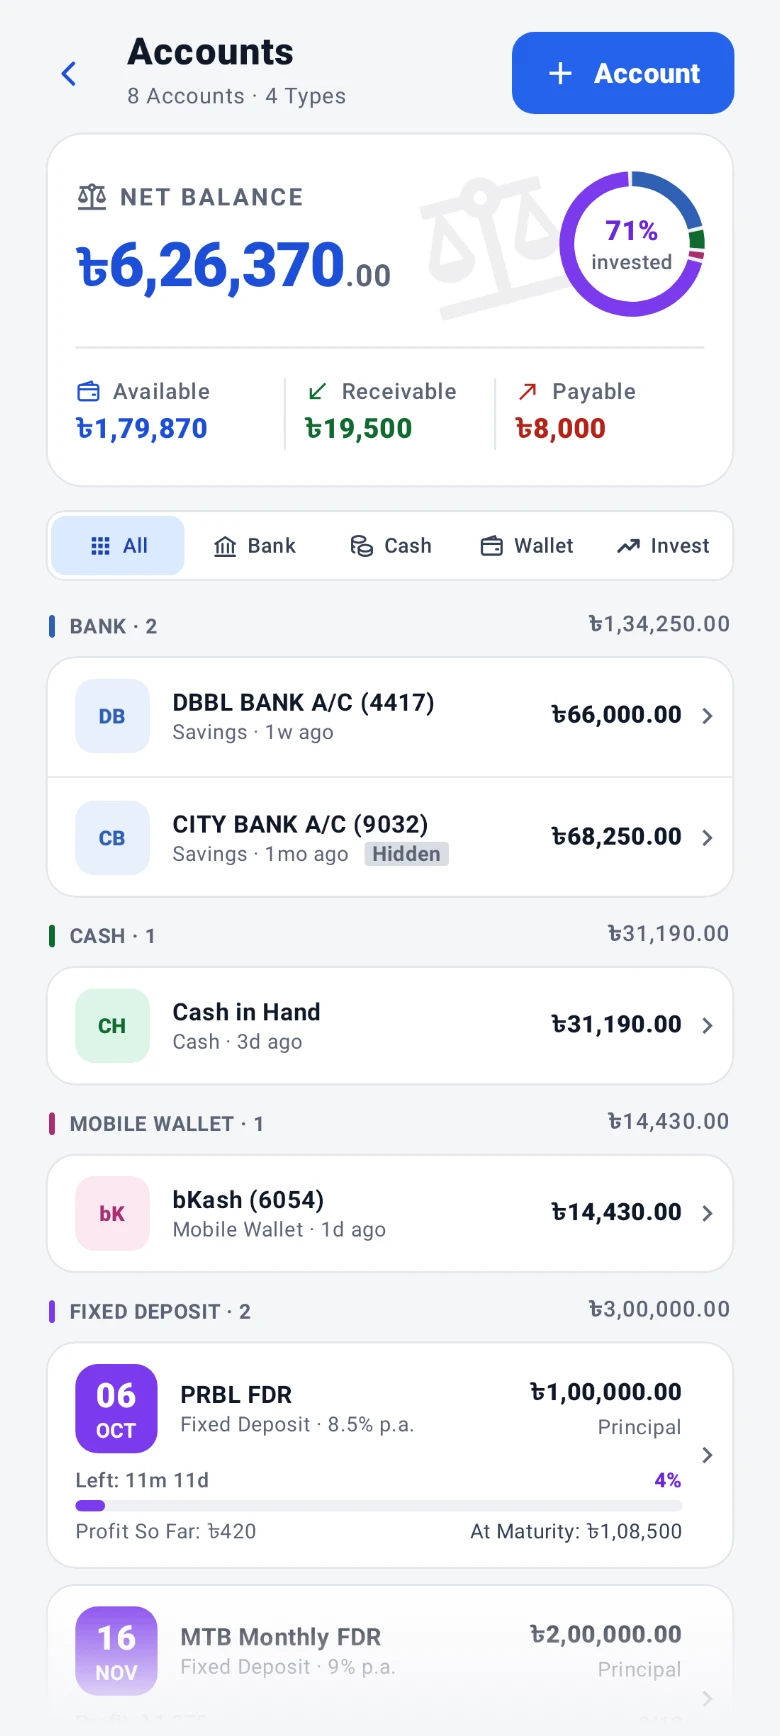
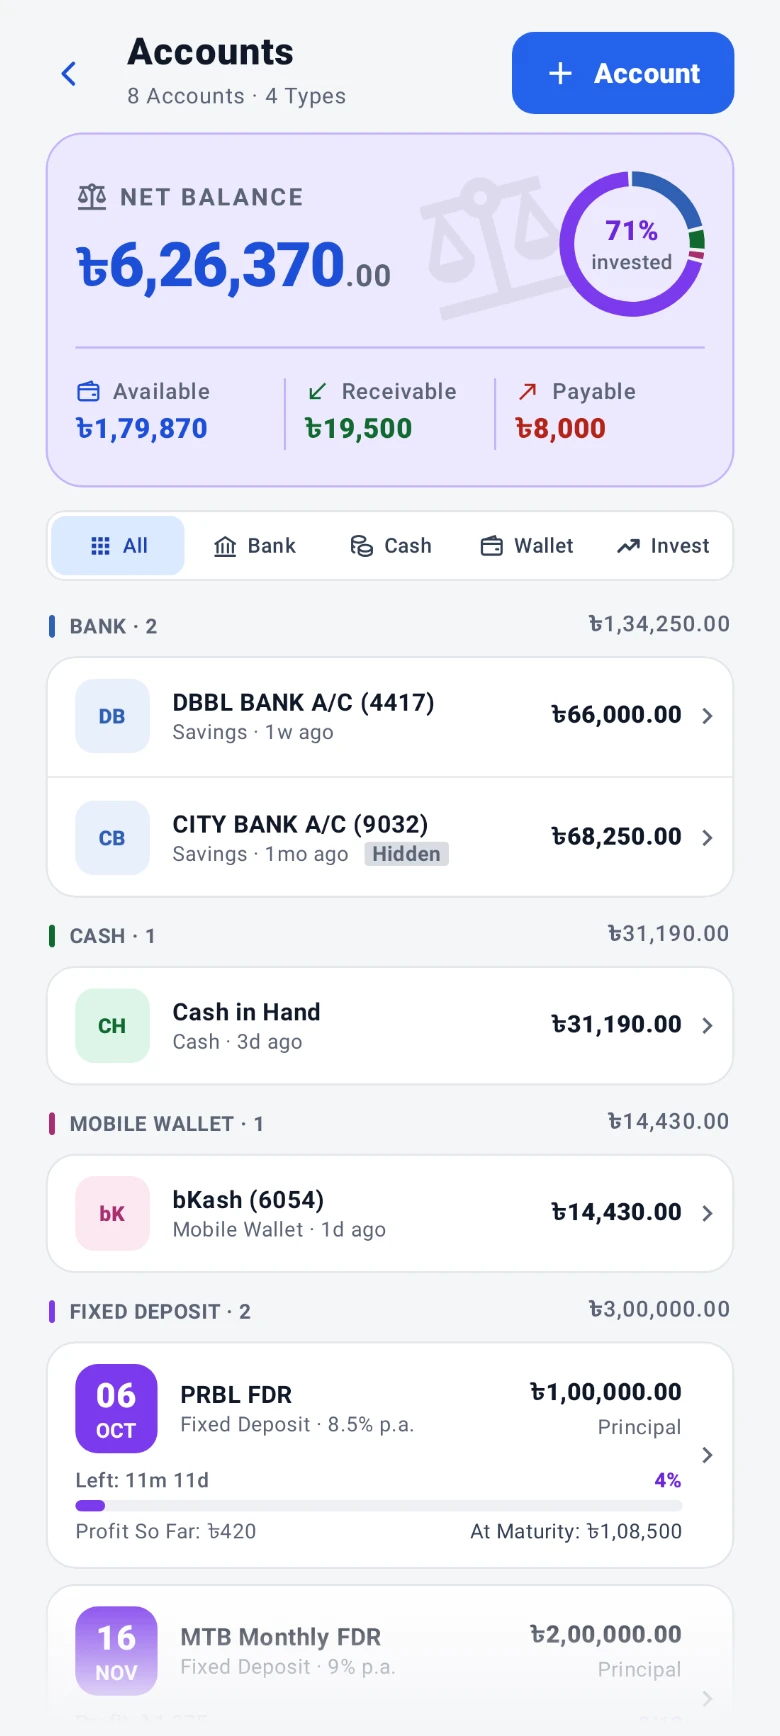
Website 2.26.1: follows app 2.3.1
- Features: the light theme's dark accent by the name the app now
  gives it, graphite (it said "slate"); a backup password is at least
  8 characters with a letter (it said "not only numbers", which let a
  date or a phone number with a slash or a dash through).
- Pictures rendered again from app 2.3.1: the light pairs of Home,
  Accounts, Investments, Analytics and Money Flow, their summary cards
  tinted violet under Rainbow and Home's head cards on a soft shadow,
  and the dark pairs of Analytics and Money Flow, their rules stopped
  short of the card's edges. The other 30 and the share picture came
  out the same.
- 2.26.0's commit filled in the changelog.

Changed region(s): [[0.6154, 0.2177, 0.6462, 0.2488], [0.3385, 0.2177, 0.3692, 0.2488]]

diff --git a/assets/strings.js b/assets/strings.js
@@ -474,10 +474,11 @@ const S = {
                  'ব্যাকআপ মানে একটি ফাইল, যা থাকে আপনার বেছে নেওয়া জায়গায় — আপনি নিজে সেভ করতে পারেন, অথবা অ্যাপ প্রতিদিন একটি ফোল্ডারে রাখে, যেখানে শেষ সাত দিনের কপি থাকে। "সর্বশেষ কপি রিস্টোর" সবচেয়ে নতুন কপি থেকে অ্যাকাউন্ট, এন্ট্রি, ধার আর আপনার প্রোফাইল ফিরিয়ে আনে; ভুল ফাইল রিস্টোর হয়ে গেলে "শেষ রিস্টোর ফিরিয়ে নিন" আগের খাতা ফিরিয়ে দেয়, যতক্ষণ না আপনি নতুন কিছু বদলান।'],
   fPassHead:    ['A password for the backup',
                  'ব্যাকআপের পাসওয়ার্ড'],
-  // 2.3.0: a password is at least 8 characters, not only numbers, and the bell says when the
-  // daily backup's saved one is weaker than that.
-  f7Pass:       ['A password locks the file — at least 8 characters, not only numbers. The daily backup keeps the one you saved, and you can change it any time; without one, anyone who has the file can open it. Nobody can recover a forgotten password. If a daily backup fails, a battery saver holds it back, or its saved password is weaker than that, the app tells you.',
-                 'পাসওয়ার্ড দিলে ফাইলটি তালাবন্ধ থাকে — কমপক্ষে ৮টি অক্ষর, শুধু সংখ্যা নয়। প্রতিদিনের ব্যাকআপ আপনার সেভ করা পাসওয়ার্ডই ব্যবহার করে, আর যখন খুশি সেটি বদলানো যায়। পাসওয়ার্ড না দিলে ফাইলটি যার হাতে যাবে সে-ই খুলতে পারবে, আর পাসওয়ার্ড ভুলে গেলে কেউ সেটি ফিরিয়ে দিতে পারবে না। প্রতিদিনের ব্যাকআপ না হলে, ব্যাটারি সেভার আটকে দিলে, বা সেভ করা পাসওয়ার্ড এর চেয়ে দুর্বল হলে, অ্যাপ জানিয়ে দেয়।'],
+  // 2.3.1: a password is at least 8 characters with a letter in it (2.3.0 said "not only
+  // numbers", which let a date or phone number with a slash or dash through), and the bell says
+  // when the daily backup's saved one is weaker than that.
+  f7Pass:       ['A password locks the file — at least 8 characters, with a letter. The daily backup keeps the one you saved, and you can change it any time; without one, anyone who has the file can open it. Nobody can recover a forgotten password. If a daily backup fails, a battery saver holds it back, or its saved password is weaker than that, the app tells you.',
+                 'পাসওয়ার্ড দিলে ফাইলটি তালাবন্ধ থাকে — কমপক্ষে ৮টি অক্ষর, অন্তত একটি বর্ণসহ। প্রতিদিনের ব্যাকআপ আপনার সেভ করা পাসওয়ার্ডই ব্যবহার করে, আর যখন খুশি সেটি বদলানো যায়। পাসওয়ার্ড না দিলে ফাইলটি যার হাতে যাবে সে-ই খুলতে পারবে, আর পাসওয়ার্ড ভুলে গেলে কেউ সেটি ফিরিয়ে দিতে পারবে না। প্রতিদিনের ব্যাকআপ না হলে, ব্যাটারি সেভার আটকে দিলে, বা সেভ করা পাসওয়ার্ড এর চেয়ে দুর্বল হলে, অ্যাপ জানিয়ে দেয়।'],
   f8Head:       ['Locked on your phone',
                  'ফোনেই তালাবন্ধ'],
   // 2.3.0: five wrong PINs lock for 30 s, doubling each time to 4 h (AuthManager).
@@ -488,8 +489,9 @@ const S = {
   fLookHead:    ['Set it up your way',
                  'আপনার পছন্দমতো সাজিয়ে নিন'],
   // 2.3.0: the light theme offers Slate and Rainbow, the dark theme gold (Yellow) and Rainbow.
-  fLookBody:    ['Bangla or English; light mode in slate or rainbow, dark mode in gold or rainbow; and the text size you like — change any of them whenever you want. Set to System, the text follows your phone’s settings, up to the app’s Large size; you can also pick Compact, Standard or Large yourself. Buttons are made easy to tap.',
-                 'বাংলা বা ইংরেজি; লাইট মোডে স্লেট বা রংধনু, ডার্ক মোডে সোনালি বা রংধনু থিম; আর পছন্দমতো ফন্ট সাইজ —সবকিছুই পরিবর্তন করতে পারবেন যখন খুশি। ফন্ট সাইজ System-এ রাখলে লেখা ফোনের সেটিংস অনুযায়ী দেখাবে, তবে অ্যাপের "বড়" সাইজের চেয়ে বড় হবে না। চাইলে কমপ্যাক্ট, স্ট্যান্ডার্ড বা বড় সাইজও বেছে নিতে পারবেন। বোতামগুলোও সহজে ট্যাপ করার মতো করে তৈরি।'],
+  // 2.3.1: the app calls Slate "Graphite" (গ্র্যাফাইট).
+  fLookBody:    ['Bangla or English; light mode in graphite or rainbow, dark mode in gold or rainbow; and the text size you like — change any of them whenever you want. Set to System, the text follows your phone’s settings, up to the app’s Large size; you can also pick Compact, Standard or Large yourself. Buttons are made easy to tap.',
+                 'বাংলা বা ইংরেজি; লাইট মোডে গ্র্যাফাইট বা রংধনু, ডার্ক মোডে সোনালি বা রংধনু থিম; আর পছন্দমতো ফন্ট সাইজ —সবকিছুই পরিবর্তন করতে পারবেন যখন খুশি। ফন্ট সাইজ System-এ রাখলে লেখা ফোনের সেটিংস অনুযায়ী দেখাবে, তবে অ্যাপের "বড়" সাইজের চেয়ে বড় হবে না। চাইলে কমপ্যাক্ট, স্ট্যান্ডার্ড বা বড় সাইজও বেছে নিতে পারবেন। বোতামগুলোও সহজে ট্যাপ করার মতো করে তৈরি।'],
   // 1.1.69. Said as the release notes say it: what goes in the list, and that the list
   // is the phone's alone -- the privacy page's promise has to hold for it too.
   f9Head:       ['A list behind the bell', 'বেল আইকনে একটি তালিকা'],

diff --git a/features.html b/features.html
@@ -280,7 +280,7 @@
       <article class="card fcard">
         <span class="tile"><svg class="ico" viewBox="0 0 24 24" aria-hidden="true"><circle cx="7.5" cy="15.5" r="4.5"/><path d="m10.7 12.3 9.3-9.3M17 6l3 3M14 9l2 2"/></svg></span>
         <h3 data-s="fPassHead">A password for the backup</h3>
-        <p data-s="f7Pass">A password locks the file — at least 8 characters, not only numbers. The daily backup keeps the one you saved, and you can change it any time; without one, anyone who has the file can open it. Nobody can recover a forgotten password. If a daily backup fails, a battery saver holds it back, or its saved password is weaker than that, the app tells you.</p>
+        <p data-s="f7Pass">A password locks the file — at least 8 characters, with a letter. The daily backup keeps the one you saved, and you can change it any time; without one, anyone who has the file can open it. Nobody can recover a forgotten password. If a daily backup fails, a battery saver holds it back, or its saved password is weaker than that, the app tells you.</p>
       </article>
       <article class="card fcard">
         <span class="tile"><svg class="ico" viewBox="0 0 24 24" aria-hidden="true"><rect x="5" y="11" width="14" height="10" rx="2"/><path d="M8 11V7a4 4 0 0 1 8 0v4"/></svg></span>
@@ -290,7 +290,7 @@
       <article class="card fcard">
         <span class="tile"><svg class="ico" viewBox="0 0 24 24" aria-hidden="true"><circle cx="12" cy="12" r="9"/><path d="M3 12h18M12 3c2.5 2.5 3.8 5.5 3.8 9s-1.3 6.5-3.8 9c-2.5-2.5-3.8-5.5-3.8-9S9.5 5.5 12 3z"/></svg></span>
         <h3 data-s="fLookHead">Set it up your way</h3>
-        <p data-s="fLookBody">Bangla or English; light mode in slate or rainbow, dark mode in gold or rainbow; and the text size you like — change any of them whenever you want. Set to System, the text follows your phone’s settings, up to the app’s Large size; you can also pick Compact, Standard or Large yourself. Buttons are made easy to tap.</p>
+        <p data-s="fLookBody">Bangla or English; light mode in graphite or rainbow, dark mode in gold or rainbow; and the text size you like — change any of them whenever you want. Set to System, the text follows your phone’s settings, up to the app’s Large size; you can also pick Compact, Standard or Large yourself. Buttons are made easy to tap.</p>
       </article>
     </div>
   </section>
@@ -324,7 +324,7 @@
       <p data-s="footerNote">Built for keeping one household’s books. No trackers on this page.</p>
     </div>
     <p class="foot-links">
-      <span class="foot-ver" data-site-version>Website v2.26.0</span>
+      <span class="foot-ver" data-site-version>Website v2.26.1</span>
       <a href="privacy.html" data-s="navPrivacy">Privacy</a>
       <a href="install.html" data-s="navInstall">How to install</a>
     </p>

diff --git a/_tools/gallery-changes.js b/_tools/gallery-changes.js
@@ -1,5 +1,5 @@
 // Website render only, never committed to the app: the site's changes to the gallery, applied
-// to a worktree of the release tag (v2.3.0 since site 2.26.0). Usage: node gallery-changes.js <worktree>. Built for site
+// to a worktree of the release tag (v2.3.1 since site 2.26.1). Usage: node gallery-changes.js <worktree>. Built for site
 // 2.21.0-2.23.2; the month counted from the gallery's held clock (25 Oct 2026) since 2.25.1.
 const fs = require('fs');
 const root = process.argv[2] + '/app/src/test/java/com/ledgerbook/app/gallery/';

diff --git a/index.html b/index.html
@@ -355,7 +355,7 @@
       <p data-s="footerNote">Built for keeping one household’s books. No trackers on this page.</p>
     </div>
     <p class="foot-links">
-      <span class="foot-ver" data-site-version>Website v2.26.0</span>
+      <span class="foot-ver" data-site-version>Website v2.26.1</span>
       <a href="privacy.html" data-s="navPrivacy">Privacy</a>
       <a href="install.html" data-s="navInstall">How to install</a>
     </p>

diff --git a/install.html b/install.html
@@ -234,7 +234,7 @@
       <p data-s="footerNote">Built for keeping one household’s books. No trackers on this page.</p>
     </div>
     <p class="foot-links">
-      <span class="foot-ver" data-site-version>Website v2.26.0</span>
+      <span class="foot-ver" data-site-version>Website v2.26.1</span>
       <a href="privacy.html" data-s="navPrivacy">Privacy</a>
       <a href="install.html" data-s="navInstall">How to install</a>
     </p>

diff --git a/privacy.html b/privacy.html
@@ -219,7 +219,7 @@
       <p data-s="footerNote">Built for keeping one household’s books. No trackers on this page.</p>
     </div>
     <p class="foot-links">
-      <span class="foot-ver" data-site-version>Website v2.26.0</span>
+      <span class="foot-ver" data-site-version>Website v2.26.1</span>
       <a href="privacy.html" data-s="navPrivacy">Privacy</a>
       <a href="install.html" data-s="navInstall">How to install</a>
     </p>

diff --git a/assets/site.js b/assets/site.js
@@ -30,7 +30,7 @@ document.documentElement.classList.add('js');
  * number for a fix to what is there, the middle one for a new page, section or feature.
  * The app's version is a separate thing and comes from the releases API.
  */
-const SITE_VERSION = '2.26.0';
+const SITE_VERSION = '2.26.1';
 
 const LANGS = { en: 0, bn: 1 };
 // The language actually on the page. Where storage is blocked the saved choice cannot

diff --git a/CHANGELOG.md b/CHANGELOG.md
@@ -12,7 +12,8 @@ Counted back over the history when the number was introduced; repository houseke
 
 | Version | Date | Commit | What |
 |---|---|---|---|
-| 2.26.0 | 2026-11-25 | — | Follows app 2.3.0. Features: the accents by theme — light mode in slate or rainbow, dark mode in gold or rainbow (it said "gold, sky blue or rainbow"); a backup password is at least 8 characters, not only numbers, and the app says when the daily backup's saved one is weaker; a DPS's instalments can be paid after maturity and earn nothing; a DPS closed early earns on each instalment from its own due day (any DPS, not only a monthly one) and can be closed with the bank's own figures, with a word when the profit is far above the reckoning; five wrong PINs lock for 30 seconds, each lockout after twice as long, up to four hours. Install: the app checks its own updates against the fingerprint and the signing key. The new-phone question: install the newest version there, since a backup from 2.3.0 does not open in an older one, and a password-protected one made on Android 8 or newer needs Android 8 or newer. Pictures rendered again from app 2.3.0: the light first-launch steps in Rainbow, as a new install on the light theme now opens (towebp.js takes them from -light-rainbow), Home's light pair with its calendar mark and Backups' with Rainbow's deeper green; the other 34 and the share picture came out the same. And 2.25.29's commit in the changelog |
+| 2.26.1 | 2026-11-26 | — | Follows app 2.3.1. Features: the light theme's dark accent by the name the app now gives it, graphite (it said "slate"); a backup password is at least 8 characters with a letter (it said "not only numbers", which let a date or a phone number with a slash or a dash through, as 2.3.0 did). Pictures rendered again from app 2.3.1: the light pairs of Home, Accounts, Investments, Analytics and Money Flow, their summary cards tinted violet under Rainbow and Home's two head cards on a soft shadow, and the dark pairs of Analytics and Money Flow with their rules stopped short of the card's edges; the other 30 and the share picture came out the same. And 2.26.0's commit in the changelog |
+| 2.26.0 | 2026-11-25 | 1e7bdd5 | Follows app 2.3.0. Features: the accents by theme — light mode in slate or rainbow, dark mode in gold or rainbow (it said "gold, sky blue or rainbow"); a backup password is at least 8 characters, not only numbers, and the app says when the daily backup's saved one is weaker; a DPS's instalments can be paid after maturity and earn nothing; a DPS closed early earns on each instalment from its own due day (any DPS, not only a monthly one) and can be closed with the bank's own figures, with a word when the profit is far above the reckoning; five wrong PINs lock for 30 seconds, each lockout after twice as long, up to four hours. Install: the app checks its own updates against the fingerprint and the signing key. The new-phone question: install the newest version there, since a backup from 2.3.0 does not open in an older one, and a password-protected one made on Android 8 or newer needs Android 8 or newer. Pictures rendered again from app 2.3.0: the light first-launch steps in Rainbow, as a new install on the light theme now opens (towebp.js takes them from -light-rainbow), Home's light pair with its calendar mark and Backups' with Rainbow's deeper green; the other 34 and the share picture came out the same. And 2.25.29's commit in the changelog |
 | 2.25.29 | 2026-11-24 | 3fa5fa4 | The app's pictures retaken from app 2.2.9, the light ones in its new Rainbow accent (the owner's choice) and the dark ones in Yellow, which Rainbow is after dark; the first-launch steps stay Yellow, as a new install starts. gallery-changes.js adds the Rainbow look the gallery lacks and drops its Money Flow 12dp change, which 2.2.7 released. Features names the third accent: "gold, sky blue or rainbow" / "সোনালি, আকাশি বা রংধনু". And 2.25.28's commit in the changelog |
 | 2.25.28 | 2026-11-20 | 6d786c8 | Corners on a scale, the owner's choice from a comparison: cards 20 at every width (a phone made them and the big sections 22), inner panels 16 through a new --radius-panel (the privacy boxes, the step pictures, the done banner and the download note were 14 and 18; the panels at 16 take the token too). Measured on every page at both widths. The sitemap's dates to 2026-11-20, which 2.25.27 missed. And 2.25.27's commit in the changelog |
 | 2.25.27 | 2026-11-20 | 30cda1b | The gold written once: --accent on :root, and the other 20 uses (link and hover lines, the warnings, the dark theme's gold, the tile and chip tints, the home headline, the privacy summary) through var(--accent); the dark blocks' copies of --accent removed. No pixel changes, checked page by page on both themes. And 2.25.26's commit in the changelog |

diff --git a/README.md b/README.md
@@ -55,7 +55,7 @@ read — the ink is a step deeper for exactly that reason. The app hit this same
 
 ## The website's version
 
-Every footer says "Website v2.26.0". `CHANGELOG.md` lists every version and what it was. The number lives once, as SITE_VERSION at the top of
+Every footer says "Website v2.26.1". `CHANGELOG.md` lists every version and what it was. The number lives once, as SITE_VERSION at the top of
 `assets/site.js`, and is raised on every publish: the last part for a fix to what is
 there, the middle part for a new page, section or feature. It is the site's own version and
 has nothing to do with the app's.

diff --git a/_tools/README.md b/_tools/README.md
@@ -17,13 +17,13 @@ in `assets/screens/SOURCE`.
 
 ## Steps
 
-The tag is the app release the pictures should show (`v2.3.0` below); `$S` is any scratch
+The tag is the app release the pictures should show (`v2.3.1` below); `$S` is any scratch
 folder. One Gradle run at a time on this machine; never `connectedAndroidTest`.
 
 ```sh
 # 1. A worktree of the release, with the site's changes
 cd /e/Projects/LedgerBook
-git -c core.longpaths=true worktree add --detach "$S/g" v2.3.0
+git -c core.longpaths=true worktree add --detach "$S/g" v2.3.1
 cp local.properties "$S/g/"
 node site/_tools/gallery-changes.js "$S/g"
 
